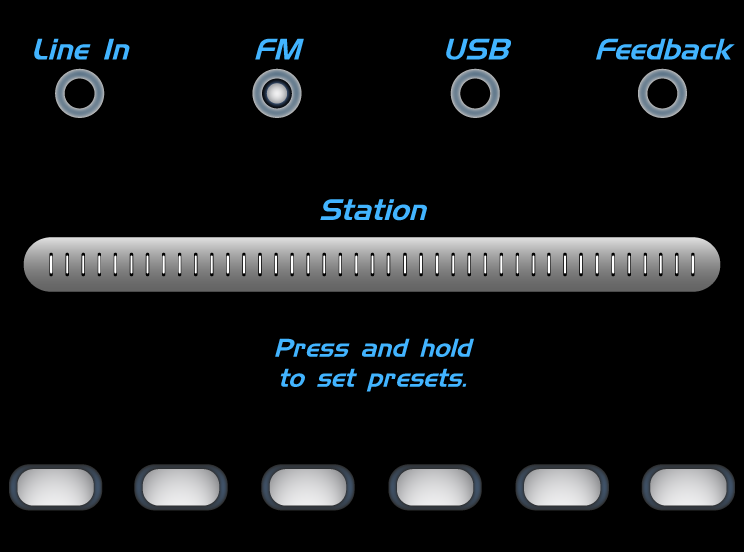
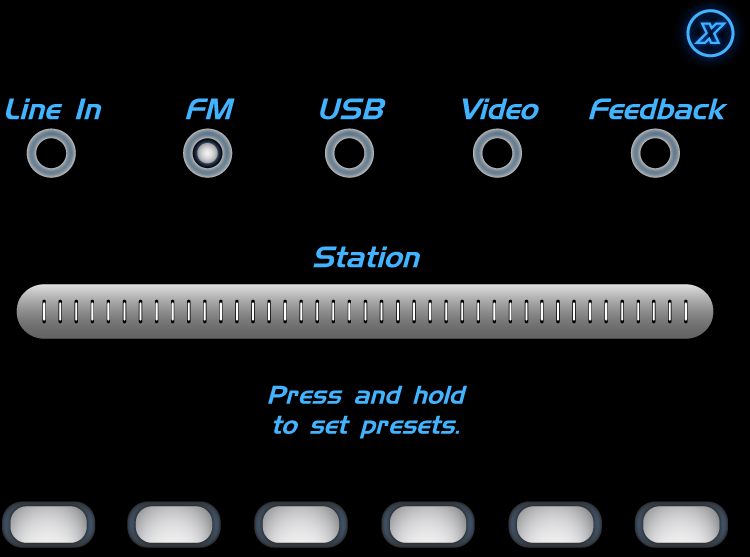
Finished updating the Main Screen.

diff --git a/TreadmillUI/trunk/APP/mainscreen.cpp b/TreadmillUI/trunk/APP/mainscreen.cpp
@@ -126,9 +126,9 @@ MainScreen::MainScreen(QWidget *parent, QString action) :
 //    gradeHistoryWidget.move(36,528);
 //    speedHistoryWidget.move(664,528);
 
-    ui->videoThumb->setPixmap(QPixmap("test video_thumb.jpg"));
-    QPixmap thumbMask(":/images/images/video_thumb_mask.png");
-    ui->videoThumb->setMask(thumbMask.mask());
+//    ui->videoThumb->setPixmap(QPixmap("test video_thumb.jpg"));
+//    QPixmap thumbMask(":/images/images/video_thumb_mask.png");
+//    ui->videoThumb->setMask(thumbMask.mask());
 
     if(action.compare("Video") == 0){
         /* We must use a timer to start playback to allow this method to finish before setting the scale.
@@ -140,18 +140,20 @@ MainScreen::MainScreen(QWidget *parent, QString action) :
         playTimer->start();
     }
 
-    audioSettingsWidget.move(140, 108);
-    audioSettingsWidget.setVisible(false);
+    QPoint centerPosition(147, 105);
 
+    audioSettingsWidget.move(centerPosition);
+    audioSettingsWidget.setVisible(false);
 
     QPixmap trackBitmap(RUNNING_DUDE_IMAGE_PATH + "/Track_Background.png");
     trackWidget->setFixedSize(trackBitmap.size());
-    trackWidget->move(139, 107);
+    trackWidget->move(centerPosition);
     trackWidget->setPixmap(trackBitmap);
     trackWidget->show();
+    trackWidget->lower();
 
     runningDudeWidget->show();
-    runningDudeWidget->move(139, 107);
+    runningDudeWidget->move(centerPosition);
     runningDudeWidget->setFixedSize(trackBitmap.size());
 
     Preferences::application->installEventFilter(this);
@@ -212,7 +214,7 @@ bool MainScreen::eventFilter(QObject * watched, QEvent *event)
         UpperBoardEvent* upperBoardEvent = (UpperBoardEvent*)event;
 
         ui->heartRateLabel->setText(QString("%1").arg((unsigned int)upperBoardEvent->heartRate));
-        ui->cadenceLabel->setText(QString("%1").arg((unsigned int)upperBoardEvent->cadence));
+//        ui->cadenceLabel->setText(QString("%1").arg((unsigned int)upperBoardEvent->cadence));
     }
 
     return QWidget::eventFilter(watched, event);
@@ -220,19 +222,21 @@ bool MainScreen::eventFilter(QObject * watched, QEvent *event)
 
 
 void MainScreen::updateDisplay(){
-    QString elapsedTimeString;
+
     int minutes = elapsedTime/60;
+    ui->elapsedTimeMinutesLabel->setText( QString("%1").arg(minutes) );
+
     int seconds = elapsedTime%60;
-    elapsedTimeString.append(QString("%1").arg(minutes));
-    elapsedTimeString.append(":");
+
+    QString elapsedTimeSecondsString;
 
     if(seconds < 10){
-        elapsedTimeString.append("0");
+       elapsedTimeSecondsString = "0";
     }
 
-    elapsedTimeString.append(QString("%1").arg(seconds));
+    elapsedTimeSecondsString.append(QString("%1").arg(seconds));
 
-    ui->elapsedTimeLabel->setText(elapsedTimeString);
+    ui->elapsedTimeSecondsLabel->setText(elapsedTimeSecondsString);
 
     QString secondsString = QString("%1").arg(elapsedTime);
 
@@ -241,18 +245,8 @@ void MainScreen::updateDisplay(){
 //    ui->cadenceLabel->setText(secondsString);
     ui->paceLabel->setText(secondsString);
 
-    QString pointNumber;
-    if(elapsedTime < 10){
-        pointNumber.append("0");
-    }
-    else{
-        pointNumber.append(QString("%1").arg(elapsedTime/10));
-    }
-
-    pointNumber.append(".");
-    pointNumber.append(QString("%1").arg(elapsedTime%10));
-
-    ui->distanceLabel->setText(pointNumber);
+    ui->distanceIntegerLabel->setText(QString("%1").arg(elapsedTime/10));
+    ui->distanceDecimalLabel->setText(QString("%1").arg(elapsedTime%10));
 
 //    unsigned int grade = Preferences::getCurrentGrade();
 //    QString gradeString = QString("%1.%2").arg(grade/10, grade%10);

diff --git a/TreadmillUI/trunk/APP/audiosettingswidget.cpp b/TreadmillUI/trunk/APP/audiosettingswidget.cpp
@@ -9,13 +9,14 @@ AudioSettingsWidget::AudioSettingsWidget(QWidget *parent) :
     ,fmPixmap(":/images/images/Audio Screen - (FM).png")
     ,usbPixmap(":/images/images/Audio Screen - (USB).png")
     ,feedbackPixmap(":/images/images/Audio Screen - (Feedback).png")
+    ,videoPixmap(":/images/images/Audio Screen - (Video).png")
     ,fmSlider(this)
 //    ,pressTimer(this)
 {
     ui->setupUi(this);
     ui->backgroundLabel->lower();
 
-    fmSlider.move(-11, 239);
+    fmSlider.move(-18, 286);
     fmSlider.step = .2;
 
     pressTimer.setSingleShot(true);
@@ -108,6 +109,12 @@ void AudioSettingsWidget::on_invisibleButton_feedback_pressed()
 {
     hideFMWidgets();
     ui->backgroundLabel->setPixmap(feedbackPixmap);
+}
+
+void AudioSettingsWidget::on_invisibleButton_video_pressed()
+{
+    hideFMWidgets();
+    ui->backgroundLabel->setPixmap(videoPixmap);
 }
 
 void AudioSettingsWidget::hideFMWidgets(){
@@ -213,4 +220,9 @@ void AudioSettingsWidget::on_invisibleButton_preset_5_released()
 void AudioSettingsWidget::on_invisibleButton_preset_6_released()
 {
     presetButtonReleased(ui->invisibleButton_preset_6);
+}
+
+void AudioSettingsWidget::on_invisibleButton_close_pressed()
+{
+    setVisible(false);
 }

diff --git a/TreadmillUI/trunk/APP/audiosettingswidget.h b/TreadmillUI/trunk/APP/audiosettingswidget.h
@@ -26,6 +26,7 @@ private:
     QPixmap fmPixmap;
     QPixmap usbPixmap;
     QPixmap feedbackPixmap;
+    QPixmap videoPixmap;
 
     RadioSliderWidget fmSlider;
     QTimer pressTimer;
@@ -35,6 +36,8 @@ private:
     void presetButtonReleased(QPushButton* button);
 
 private slots:
+    void on_invisibleButton_close_pressed();
+    void on_invisibleButton_video_pressed();
     void on_invisibleButton_preset_6_released();
     void on_invisibleButton_preset_5_released();
     void on_invisibleButton_preset_4_released();
